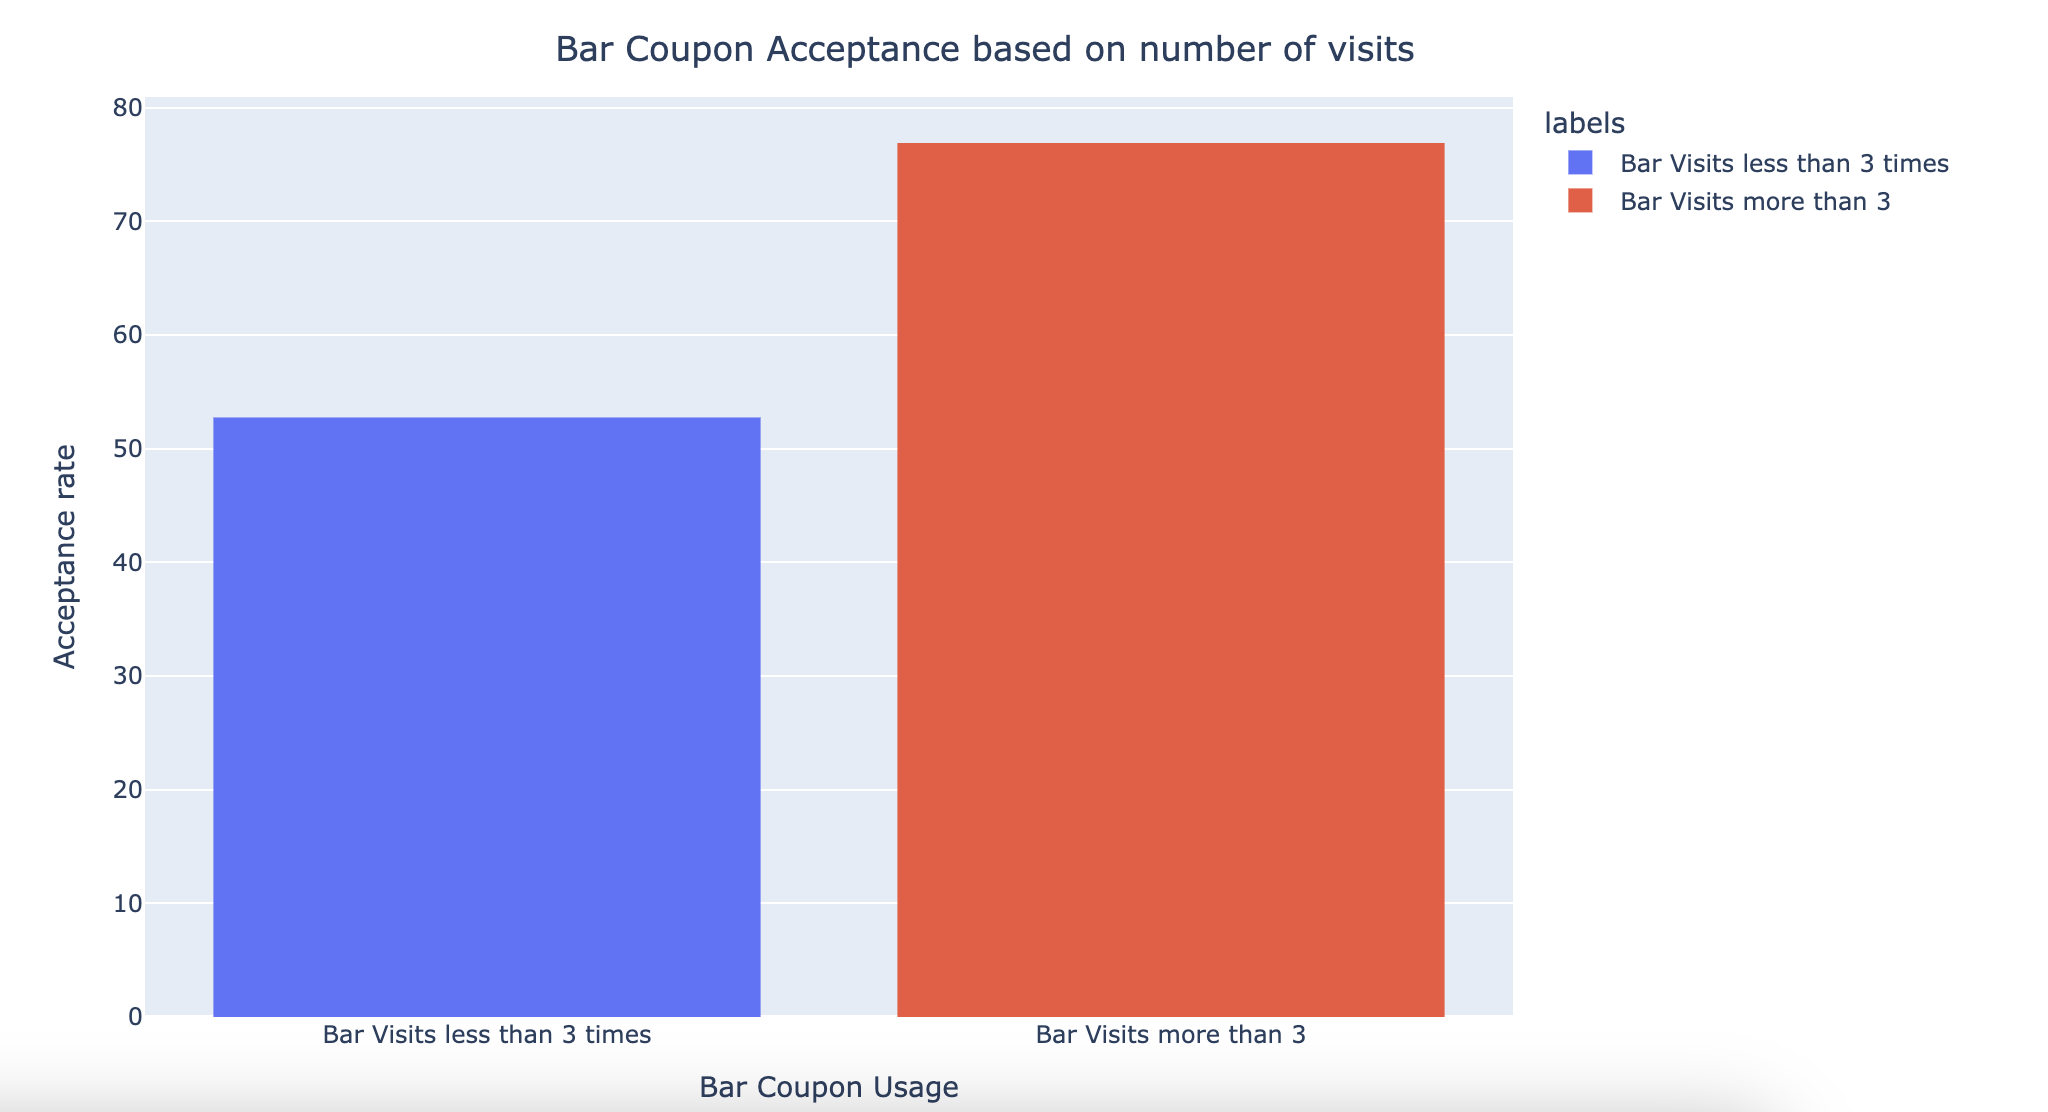
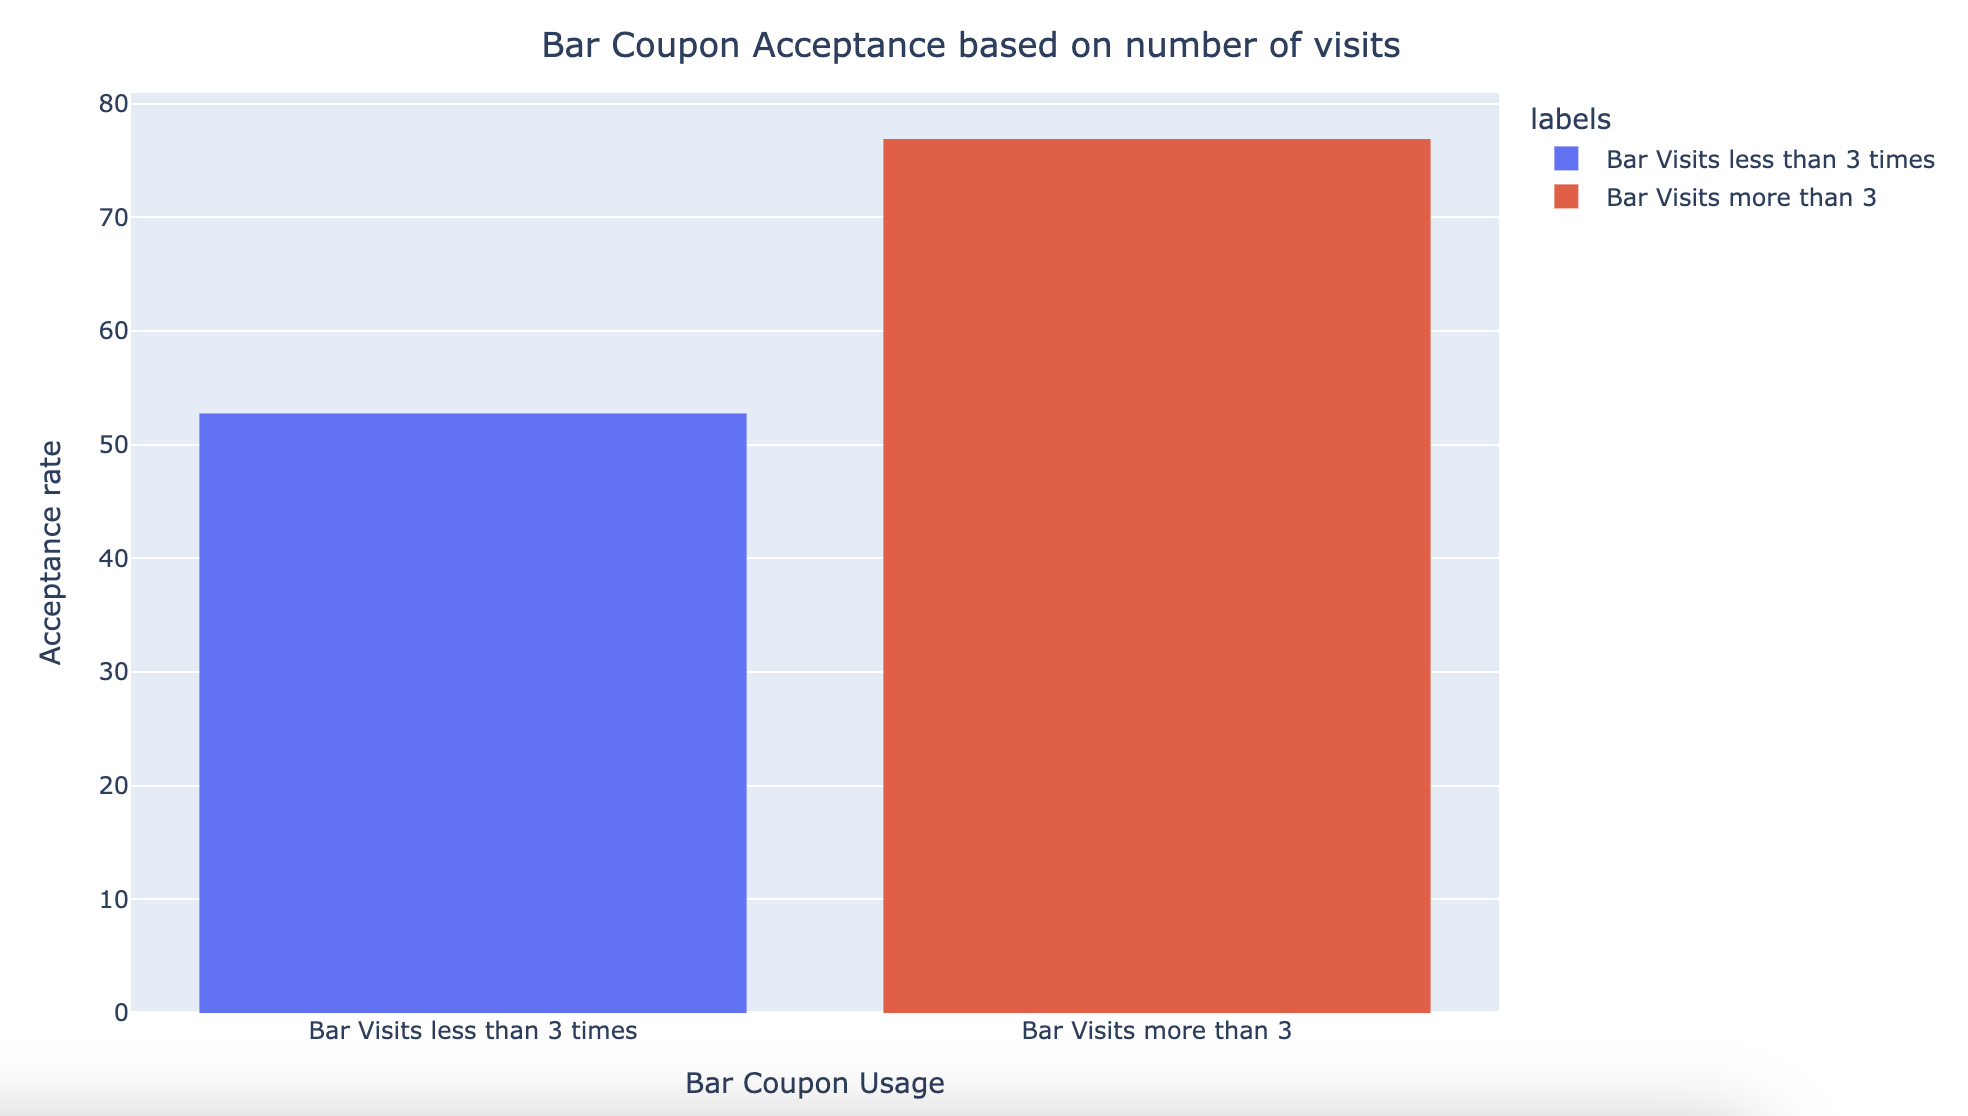
Update readme

Changed region(s): [[0.0, 0.0306, 0.9919, 0.9478], [0.341, 0.9478, 0.4959, 1.0]]

diff --git a/README.md b/README.md
@@ -35,7 +35,7 @@ People who are older than 25 and visit more than 1 time has higher acceptance co
 
 ## Acceptance rate based on passangers
 
-![bar_coupon_acceptance_diff_criteria](images/bar_coupon_acceptance_diff_criteria.png)
+![bar_coupon_acceptance_number_of_visits](images/bar_coupon_acceptance_number_of_visits.png)
 
 ### **_Conclusion_**: 
 When there are no kids in the car there is higher acceptance rate compared to other scenarios
